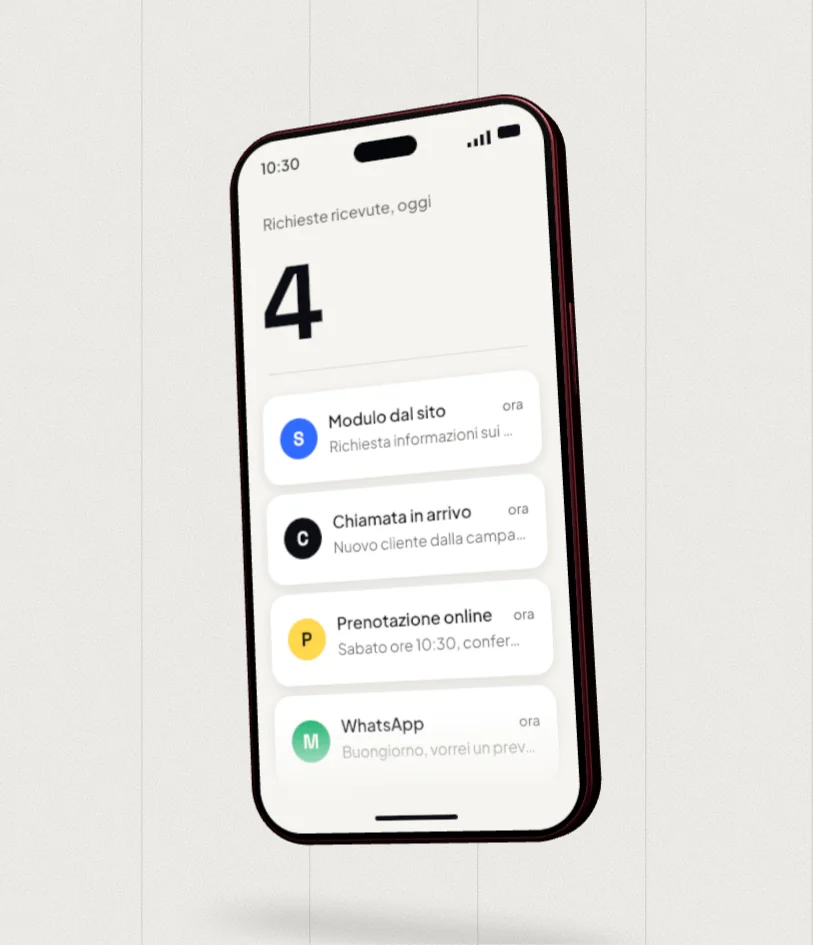
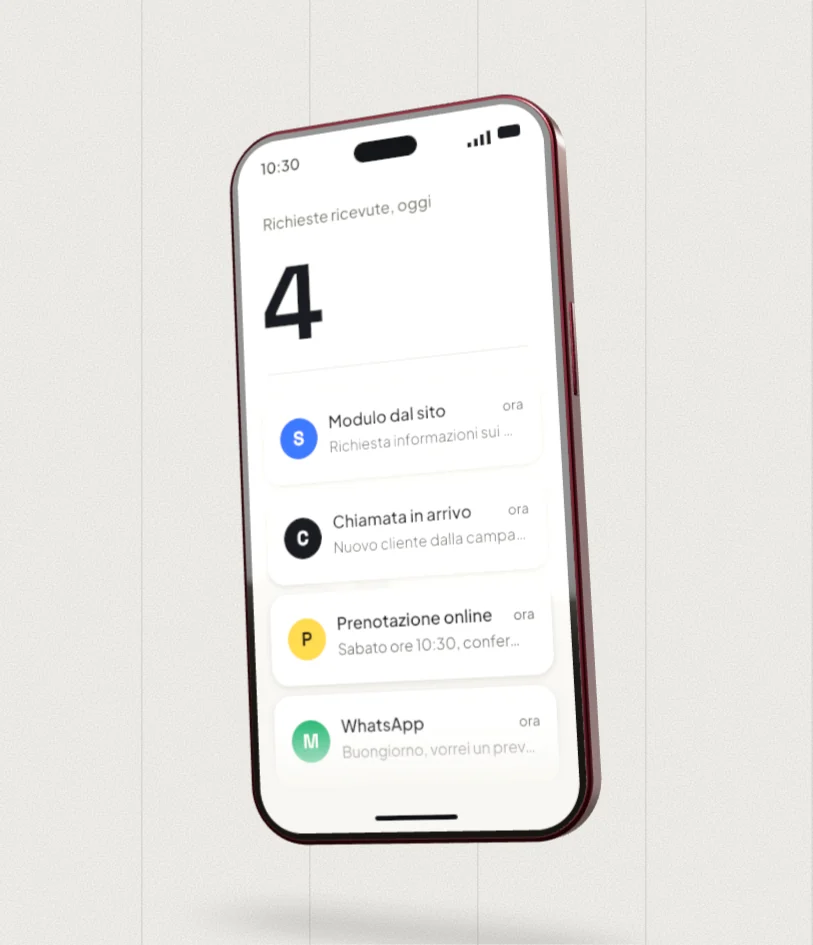
Hero: telefono di fronte fino alla fine dello scroll, ingresso immediato, resa più realistica
- Il giro completo avviene solo nell'ultima parte dello scroll; prima ruota appena e vibra
- Ingresso al caricamento con rotazione e prima richiesta subito
- Luce da studio, materiali fisici per metallo e vetro, schermo a risoluzione doppia
- Il parallax dell'hero riguarda solo il titolo: niente sovrapposizioni con la riga in fondo

Claude-Session: https://claude.ai/code/session_01PpWQt1xSN5eLSEtzSZfqnU

diff --git a/apex-media-site/src/components/three/HeroPhone.tsx b/apex-media-site/src/components/three/HeroPhone.tsx
@@ -25,6 +25,8 @@ const GLASS = "#3f161d";
 const PLATEAU = "#6a2a33";
 const FRAME = "#5a222b";
 const RING = "#3a1319";
+/** Fino a questa parte dello scroll il telefono resta di fronte; il giro completo avviene dopo */
+const SPIN_FROM = 0.62;
 /** Tasti sul telaio: x, y, altezza */
 const BUTTONS: [number, number, number][] = [
   [0.512, 0.3, 0.26],
@@ -71,6 +73,8 @@ type State = {
   ty: number;
   /** Avanzamento dello scroll lungo l’hero, 0 → 1: fa girare il telefono su sé stesso */
   spin: number;
+  /** Ingresso al caricamento, 0 → 1: il telefono sale ruotando e si ferma */
+  intro: number;
 };
 
 function rounded(ctx: CanvasRenderingContext2D, x: number, y: number, w: number, h: number, r: number) {
@@ -194,8 +198,9 @@ class Screen {
   private fonts = { display: "system-ui, sans-serif", sans: "system-ui, sans-serif" };
   private onChange: () => void = () => {};
   private next: number;
+  private scale: number;
 
-  constructor(animate: boolean) {
+  constructor(animate: boolean, scale: number) {
     const n = heroPhone.notifications.length;
     this.st = {
       count: animate ? heroPhone.start : heroPhone.start + 1,
@@ -208,11 +213,14 @@ class Screen {
       tx: 0,
       ty: 0,
       spin: 0,
+      intro: animate ? 0 : 1,
     };
     this.next = VISIBLE % n;
+    // Schermo disegnato a risoluzione doppia (una volta e mezza su telefono): testi nitidi anche da vicino
+    this.scale = scale;
     const c = document.createElement("canvas");
-    c.width = SW;
-    c.height = SH;
+    c.width = SW * scale;
+    c.height = SH * scale;
     this.ctx = c.getContext("2d")!;
     this.texture = new THREE.CanvasTexture(c);
     this.texture.colorSpace = THREE.SRGBColorSpace;
@@ -233,6 +241,7 @@ class Screen {
   }
 
   draw() {
+    this.ctx.setTransform(this.scale, 0, 0, this.scale, 0, 0);
     drawScreen(this.ctx, this.st, this.fonts);
     this.texture.needsUpdate = true;
     this.onChange();
@@ -251,6 +260,11 @@ class Screen {
     });
     gsap.fromTo(st, { buzz: 0 }, { buzz: 1, duration: 0.55, ease: "none", onUpdate: this.onChange });
     gsap.fromTo(st, { ring: 0 }, { ring: 1, duration: 1.3, ease: "power2.out", onUpdate: this.onChange });
+  }
+
+  /** Ingresso: sale ruotando su sé stesso e si ferma */
+  enter() {
+    gsap.to(this.st, { intro: 1, duration: 1.5, ease: "power3.out", onUpdate: this.onChange });
   }
 
   /** Lo scroll fa girare il telefono: 0 = di fronte, 1 = un giro completo */
@@ -276,7 +290,7 @@ function Phone({ animate, onReady }: { animate: boolean; onReady: () => void }) 
   const ring = useRef<THREE.Mesh>(null);
   const ringMat = useRef<THREE.MeshStandardMaterial>(null);
   const [light] = useState(() => window.matchMedia("(max-width: 1023px)").matches);
-  const [screen] = useState(() => new Screen(animate));
+  const [screen] = useState(() => new Screen(animate, light ? 1.5 : 2));
 
   useEffect(() => {
     screen.connect(invalidate, gl.capabilities.getMaxAnisotropy());
@@ -286,6 +300,7 @@ function Phone({ animate, onReady }: { animate: boolean; onReady: () => void }) 
       screen.useSiteFonts();
       screen.draw();
       requestAnimationFrame(onReady);
+      screen.enter();
     });
     return () => screen.dispose();
   }, [screen, gl, invalidate, onReady]);
@@ -293,8 +308,9 @@ function Phone({ animate, onReady }: { animate: boolean; onReady: () => void }) 
   // Una richiesta ogni pochi secondi, solo mentre il telefono è in vista e la scheda è aperta
   useEffect(() => {
     if (!animate) return;
-    const loop = gsap.timeline({ repeat: -1, paused: true });
-    loop.to({}, { duration: heroPhone.every }).call(() => screen.arrive());
+    // La prima richiesta arriva subito dopo l’ingresso, poi una ogni `every` secondi
+    const loop = gsap.timeline({ repeat: -1, paused: true, delay: 0.7 });
+    loop.call(() => screen.arrive(), [], 0.02).to({}, { duration: heroPhone.every });
     let inView = false;
     const sync = () => (inView && !document.hidden ? loop.play() : loop.pause());
     const io = new IntersectionObserver(
@@ -348,17 +364,24 @@ function Phone({ animate, onReady }: { animate: boolean; onReady: () => void }) 
     if (g) {
       // Vibrazione: poche oscillazioni rapide che si spengono
       const b = st.buzz < 1 ? Math.sin(st.buzz * Math.PI * 12) * 0.045 * (1 - st.buzz) : 0;
-      // Un giro completo, ma non a velocità costante: indugia di fronte (schermo visibile) e passa veloce sul retro
-      const turn = st.spin * Math.PI * 2 - Math.sin(st.spin * Math.PI * 2) * 0.8;
-      // Dondolio lento da fermo + giro completo con lo scroll, con il telefono che si piega un po’ mentre gira
+      // Scroll: nella prima parte il telefono ruota appena e torna (resta di fronte, lo schermo si legge);
+      // solo nell’ultima parte, quando sta per uscire dallo schermo, fa il giro completo
+      const p = st.spin;
+      const early = Math.sin(Math.min(1, p / SPIN_FROM) * Math.PI) * 0.36;
+      const a = Math.min(1, Math.max(0, (p - SPIN_FROM) / (1 - SPIN_FROM)));
+      const late = a * a * (3 - 2 * a) * Math.PI * 2;
+      const turn = early + late;
+      // Da fermo dondola piano su sé stesso; all’ingresso arriva da sotto ruotando
       const t = animate ? performance.now() / 1000 : 0;
+      const intro = 1 - st.intro;
       g.rotation.set(
-        -0.1 + st.ty * 0.06 + Math.sin(turn) * 0.14 + Math.sin(t * 0.9) * 0.025,
-        -0.38 + st.tx * 0.12 + turn + Math.sin(t * 0.7) * 0.11,
-        0.05 + b + Math.sin(turn * 2) * 0.05,
+        -0.1 + st.ty * 0.06 + Math.sin(late) * 0.14 + Math.sin(t * 0.9) * 0.03,
+        -0.38 + st.tx * 0.12 + turn + Math.sin(t * 0.7) * 0.15 - intro * 1.15,
+        0.05 + b + Math.sin(late * 2) * 0.05,
       );
-      g.position.x = b * 0.5 + Math.sin(turn) * 0.12;
-      g.position.y = Math.sin(t * 1.1) * 0.035;
+      g.position.x = b * 0.5 + Math.sin(late) * 0.12;
+      g.position.y = Math.sin(t * 1.1) * 0.035 - intro * 0.4;
+      g.scale.setScalar(0.9 + 0.1 * st.intro);
     }
     if (ring.current && ringMat.current) {
       const s = 1 + st.ring * 1.25;
@@ -382,40 +405,45 @@ function Phone({ animate, onReady }: { animate: boolean; onReady: () => void }) 
       <group ref={group}>
         {/* Corpo: retro bordeaux opaco, fianchi piatti in metallo satinato con spigoli appena smussati */}
         <Plate w={1.02} h={2.08} r={0.17} depth={0.1} bevel={0.012} segments={seg}>
-          <meshStandardMaterial attach="material-0" color={BACK} roughness={0.62} metalness={0.25} />
-          <meshStandardMaterial attach="material-1" color={FRAME} roughness={0.36} metalness={0.8} />
+          <meshPhysicalMaterial attach="material-0" color={BACK} roughness={0.5} metalness={0.5} clearcoat={0.25} clearcoatRoughness={0.6} />
+          <meshStandardMaterial attach="material-1" color={FRAME} roughness={0.24} metalness={0.95} />
         </Plate>
         {/* Tasti sul telaio: accensione a destra, azione e volume a sinistra */}
         {BUTTONS.map(([x, y, h]) => (
           <RoundedBox key={`${x}${y}`} args={[0.012, h, 0.032]} radius={0.005} smoothness={2} position={[x, y, 0]}>
-            <meshStandardMaterial color={FRAME} roughness={0.35} metalness={0.8} />
+            <meshStandardMaterial color={FRAME} roughness={0.24} metalness={0.95} />
           </RoundedBox>
         ))}
 
         {/* ---- Retro ---- */}
         {/* Pannello in vetro satinato sotto le fotocamere, appena più scuro */}
         <Plate w={0.9} h={1.33} r={0.1} depth={0.004} segments={seg} position={[0, -0.31, -0.052]}>
-          <meshStandardMaterial color={GLASS} roughness={0.75} metalness={0.15} />
+          <meshPhysicalMaterial color={GLASS} roughness={0.42} metalness={0.35} clearcoat={0.55} clearcoatRoughness={0.3} />
         </Plate>
         {/* Fascia delle fotocamere: rialzata, larga quasi quanto il telefono */}
         <group position={[0, 0.72, -0.05]}>
           <Plate w={0.93} h={0.52} r={0.14} depth={0.03} bevel={0.008} segments={seg} position={[0, 0, -0.015]}>
-            <meshStandardMaterial color={PLATEAU} roughness={0.5} metalness={0.35} />
+            <meshPhysicalMaterial color={PLATEAU} roughness={0.38} metalness={0.55} clearcoat={0.3} clearcoatRoughness={0.5} />
           </Plate>
           {/* Tre obiettivi a triangolo (visti da dietro stanno a sinistra, quindi qui x è positivo) */}
           {LENSES.map(([x, y]) => (
             <group key={`${x}${y}`} position={[x, y, -0.036]} rotation-x={Math.PI / 2}>
               <mesh>
                 <cylinderGeometry args={[0.108, 0.108, 0.03, round]} />
-                <meshStandardMaterial color={RING} roughness={0.3} metalness={0.85} />
+                <meshStandardMaterial color={RING} roughness={0.16} metalness={1} />
               </mesh>
               <mesh position={[0, -0.012, 0]}>
                 <cylinderGeometry args={[0.088, 0.088, 0.012, round]} />
-                <meshStandardMaterial color="#07080b" roughness={0.12} metalness={0.5} />
+                <meshPhysicalMaterial color="#030305" roughness={0.03} metalness={0.2} clearcoat={1} clearcoatRoughness={0} />
               </mesh>
+              {/* Iride e pupilla: danno profondità all’obiettivo */}
               <mesh position={[0, -0.0185, 0]}>
-                <cylinderGeometry args={[0.04, 0.04, 0.002, round]} />
-                <meshStandardMaterial color="#1a2233" roughness={0.1} metalness={0.7} />
+                <cylinderGeometry args={[0.058, 0.058, 0.002, round]} />
+                <meshStandardMaterial color="#101a2c" roughness={0.2} metalness={0.9} />
+              </mesh>
+              <mesh position={[0, -0.0195, 0]}>
+                <cylinderGeometry args={[0.03, 0.03, 0.002, round]} />
+                <meshPhysicalMaterial color="#020203" roughness={0.02} clearcoat={1} />
               </mesh>
             </group>
           ))}
@@ -437,12 +465,26 @@ function Phone({ animate, onReady }: { animate: boolean; onReady: () => void }) 
         {/* ---- Fronte ---- */}
         {/* Vetro nero a filo del telaio, poi lo schermo con cornici sottili e uguali */}
         <Plate w={0.99} h={2.05} r={0.155} depth={0.004} segments={seg} position={[0, 0, 0.052]}>
-          <meshStandardMaterial color="#050506" roughness={0.18} metalness={0.3} />
+          <meshPhysicalMaterial color="#030304" roughness={0.06} metalness={0.1} clearcoat={1} clearcoatRoughness={0.02} />
         </Plate>
         <mesh position={[0, 0, 0.0552]}>
           <planeGeometry args={[0.952, screenH]} />
           <meshBasicMaterial map={screen.texture} toneMapped={false} transparent />
         </mesh>
+        {/* Riflesso del vetro sopra lo schermo: appena accennato, per non sbiadire i testi */}
+        <Plate w={0.952} h={screenH} r={0.127} depth={0.0004} segments={seg} position={[0, 0, 0.0558]}>
+          <meshPhysicalMaterial
+            color="#000000"
+            roughness={0.04}
+            metalness={0}
+            clearcoat={1}
+            clearcoatRoughness={0}
+            transparent
+            opacity={0.1}
+            blending={THREE.AdditiveBlending}
+            depthWrite={false}
+          />
+        </Plate>
       </group>
     </group>
   );
@@ -516,29 +558,38 @@ export default function HeroPhone({ onReady }: { onReady: () => void }) {
   return (
     <Canvas
       frameloop="demand"
-      dpr={light ? [1, 1.5] : [1, 2]}
+      // Il telefono è piccolo e deve essere nitido: fino a 2× anche su telefono
+      dpr={[1, 2]}
       // near e far stretti: più precisione in profondità, niente sfarfallio tra vetro e schermo
       camera={{ fov: 28, near: 2, far: 12, position: [0, 0.05, 5.4] }}
       gl={{ antialias: true, alpha: true, powerPreference: "high-performance" }}
       style={{ touchAction: "pan-y" }}
     >
-      <hemisphereLight args={["#ffffff", "#d9d2c5", 0.9]} />
-      <directionalLight position={[-3, 5, 6]} intensity={2} color="#fffaf0" />
-      <directionalLight position={[4, 1, 2]} intensity={0.6} color="#f1ece2" />
-      <Environment resolution={64} frames={1}>
-        <Lightformer form="rect" intensity={2} position={[-2, 3, 4]} scale={[6, 2, 1]} />
-        <Lightformer form="rect" intensity={0.8} position={[4, 0, 2]} rotation-y={-Math.PI / 3} scale={[3, 4, 1]} />
+      <hemisphereLight args={["#ffffff", "#cfc7b9", 0.55]} />
+      <directionalLight position={[-3, 5, 6]} intensity={1.6} color="#fffaf0" />
+      <directionalLight position={[4, 2, -5]} intensity={1.2} color="#fff3e6" />
+      {/* Studio: fondo grigio caldo e pannelli luminosi, sono quelli che si riflettono su metallo e vetro */}
+      <Environment resolution={light ? 128 : 256} frames={1}>
+        <mesh scale={30}>
+          <sphereGeometry args={[1, 24, 24]} />
+          <meshBasicMaterial color="#8f887c" side={THREE.BackSide} />
+        </mesh>
+        <Lightformer form="rect" intensity={3.2} position={[-3.5, 3, 5]} scale={[5, 5, 1]} />
+        <Lightformer form="rect" intensity={2.6} position={[5, 1, 2.5]} scale={[1.6, 7, 1]} />
+        <Lightformer form="rect" intensity={1.6} position={[0, 6, 0]} scale={[9, 9, 1]} />
+        <Lightformer form="rect" intensity={2.4} position={[-4, 1.5, -5]} scale={[4, 6, 1]} />
+        <Lightformer form="rect" intensity={1.8} position={[4.5, -1, -4]} scale={[2, 5, 1]} />
       </Environment>
       <Phone animate={animate} onReady={onReady} />
       <ContactShadows
         position={[0, -1.3, 0]}
         scale={4}
         far={2.4}
-        blur={2.8}
-        opacity={0.32}
+        blur={3}
+        opacity={0.36}
         color="#2a2620"
         frames={1}
-        resolution={light ? 256 : 512}
+        resolution={512}
       />
     </Canvas>
   );

diff --git a/apex-media-site/src/components/sections/Hero.tsx b/apex-media-site/src/components/sections/Hero.tsx
@@ -86,9 +86,10 @@ function setup(root: HTMLElement) {
     tl.from("[data-hero-foot]", { opacity: 0, duration: 0.7 }, 1.3);
     tl.from("[data-hero-note]", { opacity: 0, duration: 0.7 }, 1.4);
 
-    // Uscita: il blocco del titolo scorre un po’ più lento, così l’hero “resta” un attimo
-    gsap.to("[data-hero-body]", {
-      yPercent: 14,
+    // Uscita: solo il titolo scorre un po’ più lento, così l’hero “resta” un attimo.
+    // (Non tutto il blocco: con il telefono dentro finirebbe sopra la riga in fondo.)
+    gsap.to("[data-hero-title]", {
+      yPercent: 4,
       ease: EASE.scrub,
       scrollTrigger: {
         trigger: root,
@@ -195,7 +196,7 @@ export function Hero() {
               <SceneSlot
                 className="h-full w-full"
                 quietFallback
-                mountDelay={1800}
+                mountDelay={350}
                 fallback={{
                   src: "/hero/telefono.webp",
                   width: 900,
